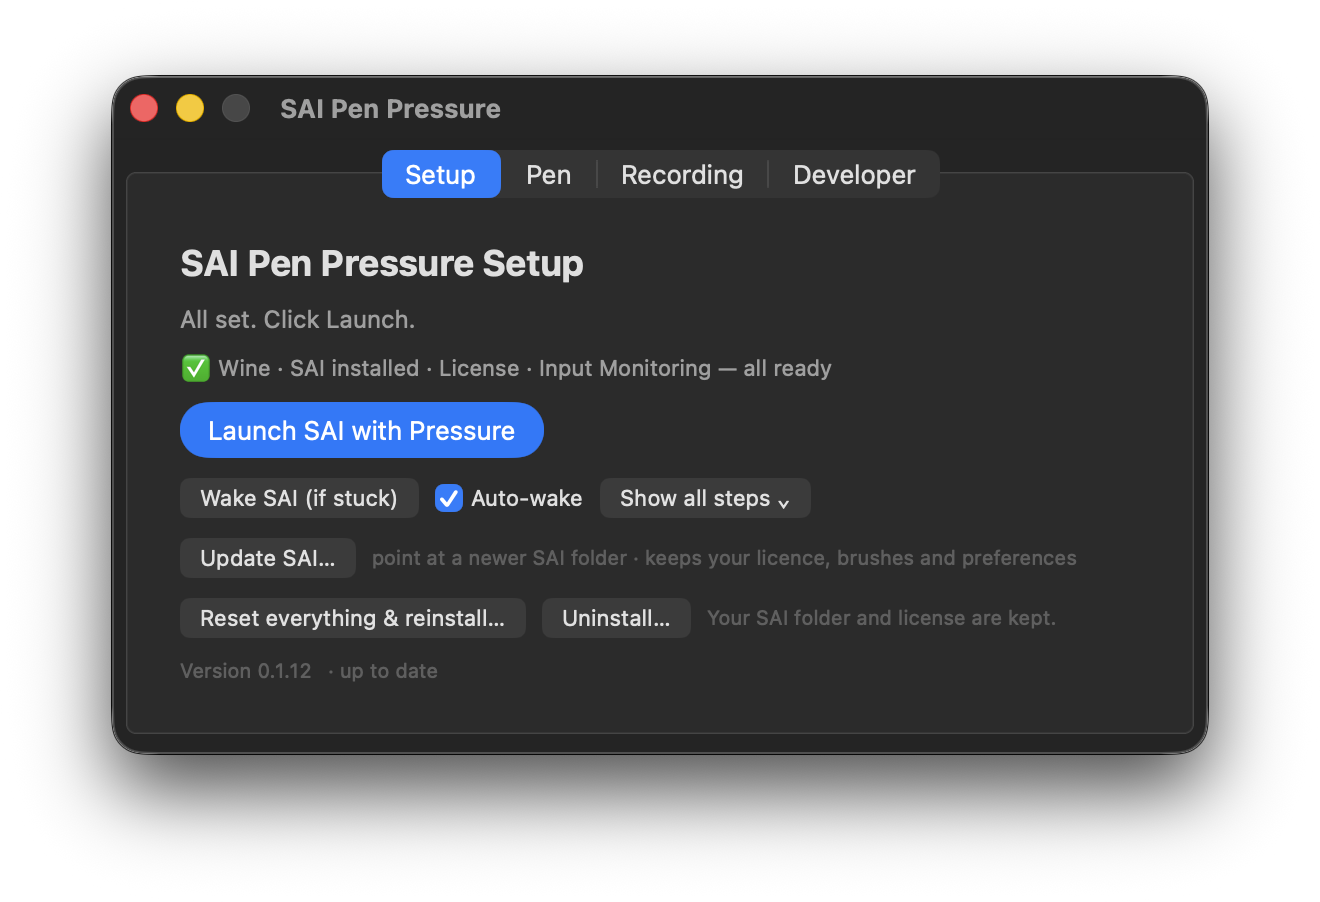
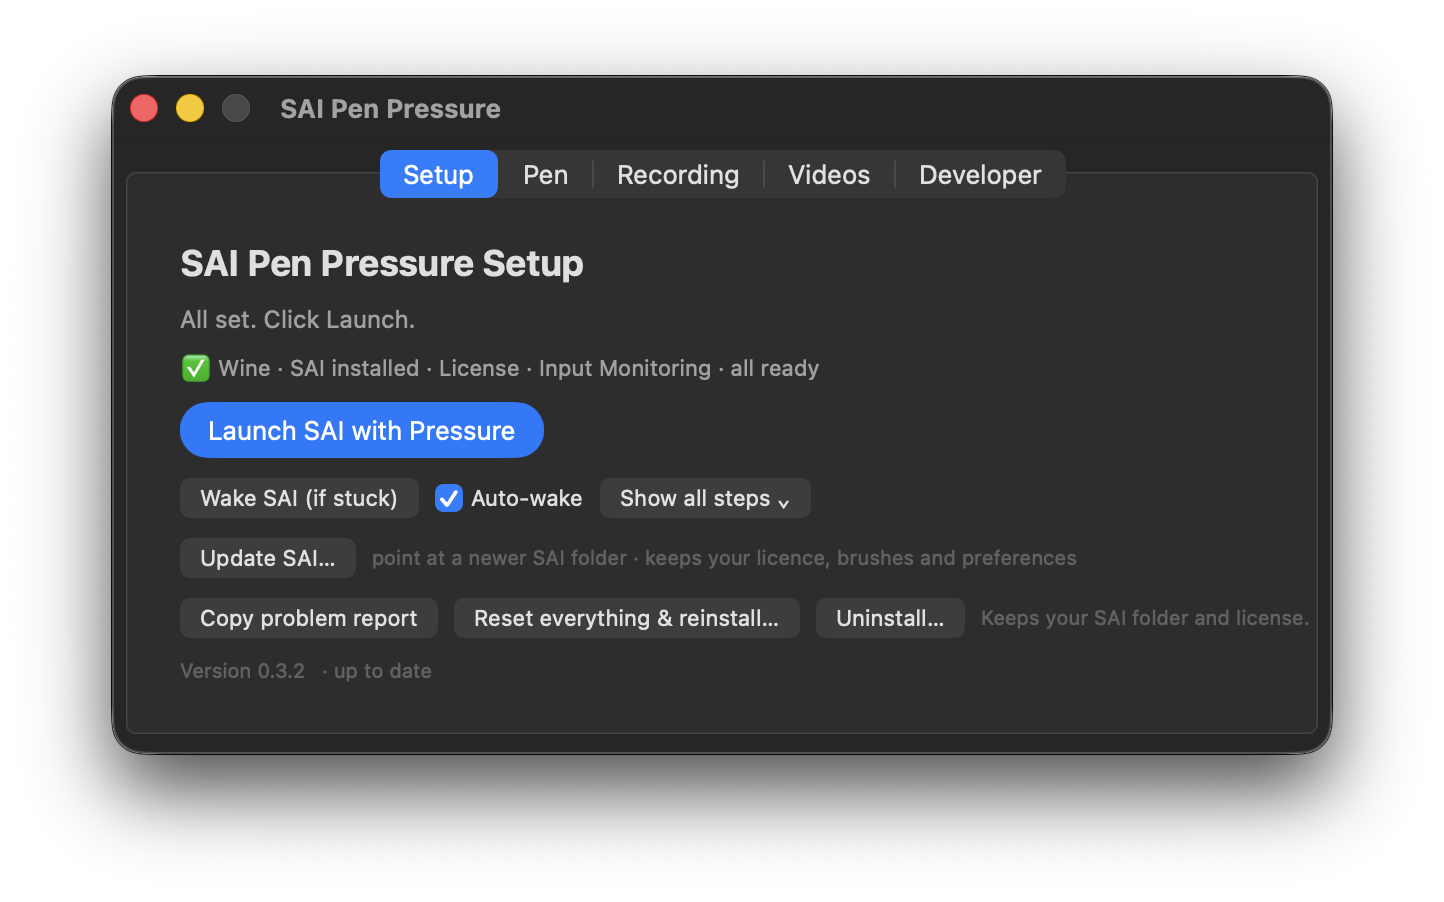
Tell people where to go when it breaks, and what to bring
The README had no place that said "this went wrong, here is what to do".
Troubleshooting was linked once from Get started, and the issue tracker
was not linked at all.

There is a section for it now, and it leads with the thing that makes a
report actionable: Copy problem report on the Setup tab, shown in a
screenshot so it is findable without hunting. That one button answers
almost every question the bug template asks by hand, which is the whole
reason #29 took two rounds to place.

The Setup screenshot was also from before that button existed, so it is
refreshed here (part of #32; the Developer tab shot is still stale).

Careful with the wording on the two bars: the second one measures what
reaches WINE, not SAI, because SAI is not running during the test. Saying
otherwise would overclaim exactly the thing the bar exists to prove.

diff --git a/README.md b/README.md
@@ -174,6 +174,28 @@ didn't work.
 
 ---
 
+## Something not working?
+
+First: **[Troubleshooting](https://ametrien.github.io/Paint-Tool-SAI-pen-pressure-macOS-fix/troubleshooting)**,
+organised by how to tell which problem you have. If pressure is the problem, the **Pen** tab's
+**Test pen** shows two bars: what the app sends, and what actually arrives on the other side,
+inside Wine, where SAI would read it. If the top one moves and the bottom stays flat, the app
+will tell you what to press.
+
+If that doesn't sort it, **[open an issue](https://github.com/ametrien/Paint-Tool-SAI-pen-pressure-macOS-fix/issues/new/choose)**
+and start it with **Copy problem report** on the Setup tab:
+
+<p align="center">
+  <img src="docs/assets/screenshots/setup.png" alt="The Setup tab, with the Copy problem report button next to Reset everything and Uninstall" width="88%">
+</p>
+
+That one button collects everything needed to help: your Mac and chip, macOS and Wine versions,
+your tablet and how it is connected, whether Wine is loading the pressure bridge or ignoring it,
+what SAI last received, and the recent log. Paste it into the issue and there is usually nothing
+else to gather.
+
+---
+
 ## Build from source (contributors)
 
 Only `wintab32.dll` is committed prebuilt (cross-compiling it needs mingw-w64). The Swift
